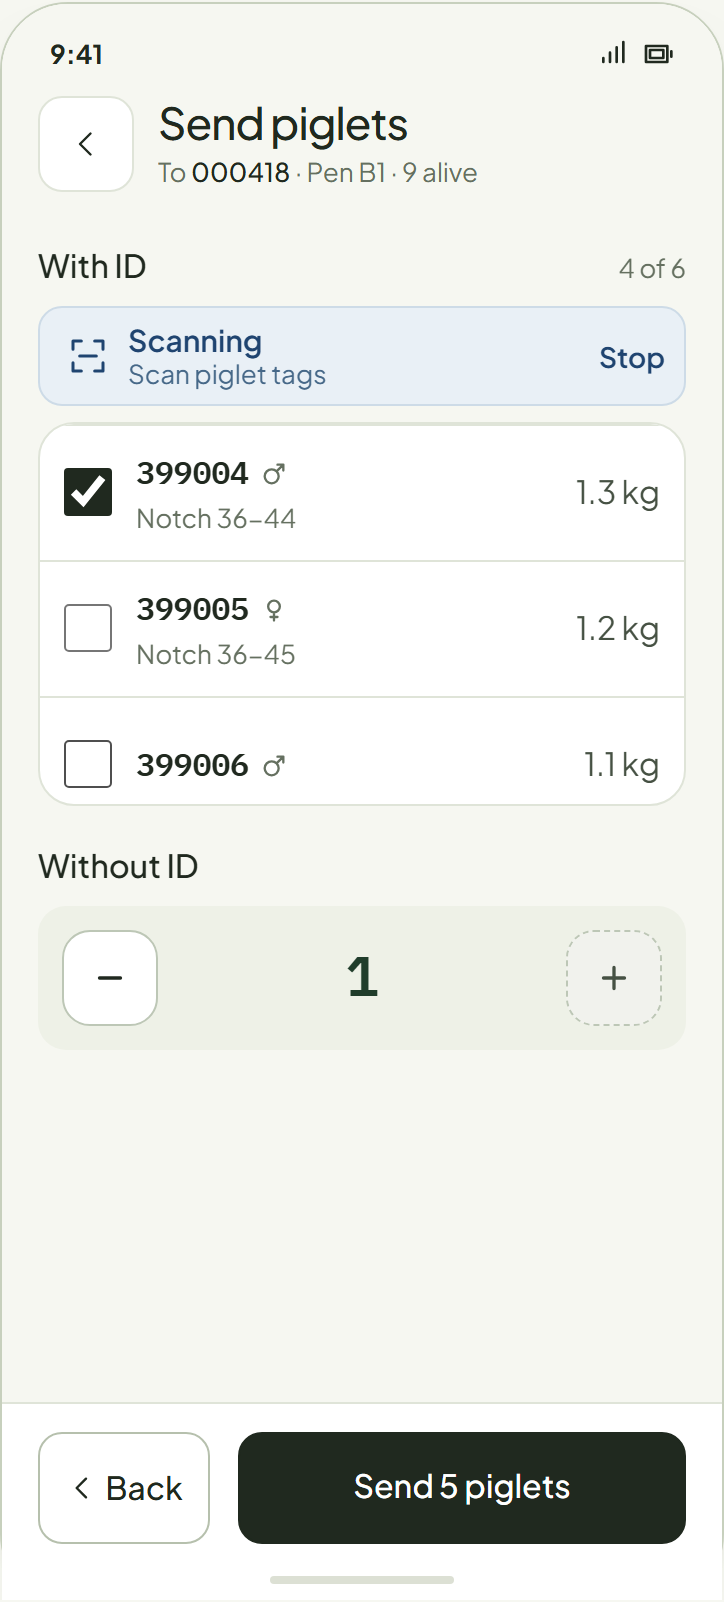
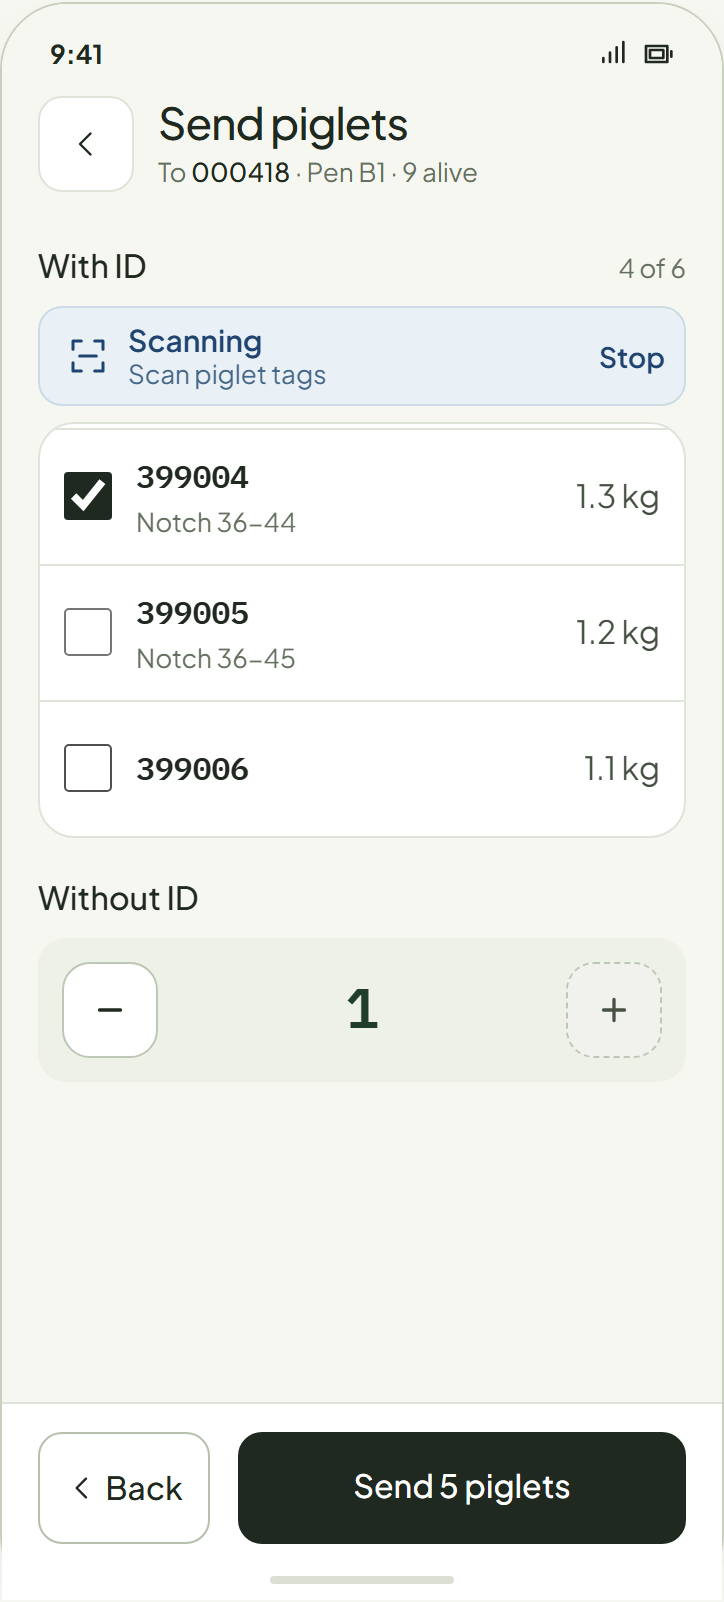
Send piglets: three whole ID rows with a fade for more; no sex glyph (a tagged piglet's sex is on record); canvas: the ticked colour options

diff --git a/ux/system/farrowing-astra-concept.js b/ux/system/farrowing-astra-concept.js
@@ -1168,14 +1168,16 @@ const fosterActive=g=>Number(g.unit!=='all')+roomFilterCount(g);   // the badge:
 const fosterShown=(s,g)=>fosterCandidates(s).filter(({r,unit})=>fosterMatch(g,r,unit)).length;
 // The litter's piglets with an ID (owner, 2026-11-02): a label as Without ID's with the count ticked at its end, the search by piglet ID
 // (its scan icon turns it into the scan bar, and each read ticks that piglet), then one box of tick rows (no card inside a card), a row each (Row · Select with an animal's right side:
-// the ID with its sex glyph over its notch, the weight on the right). Past about 2½ rows they scroll inside the box, a whole row
-// always at its top; the cut row says there are more.
+// the ID over its notch, the weight on the right; no sex: a tagged piglet's sex is already on record, owner 2026-11-03). Past three whole rows they scroll inside the box, a whole row
+// always at its top; a fade at the bottom says there are more.
 function fosterIdRows(list,f){
  const q=f.idQ.trim().toLowerCase(),shown=list.filter(p=>!q||p.tag.toLowerCase().includes(q));
  if(!shown.length)return `<p class="st-find-hint foster-id-none">No piglet ID matching “${esc(f.idQ.trim())}”.</p>`;
- return shown.map(p=>{const html=SentriUI.rowSelect({code:p.tag,description:p.notch?'Notch '+p.notch:'',right:{kind:'state',figure:p.weight?p.weight+' kg':'',word:'',level:'settled'},checked:f.ids.includes(p.tag),fill:false,action:'fosterId',value:p.tag,inputAttrs:{'data-value':p.tag,'aria-label':'Move '+p.tag}});const sex=p.sex==='Female'||p.sex==='Male'?`<span class="piglet-sex" role="img" aria-label="${p.sex}">${icon(p.sex.toLowerCase())}</span>`:'',out=html.replace(`<strong class="st-animal-id">${p.tag}</strong>`,`<strong class="st-animal-id">${p.tag}${sex}</strong>`);   // ♀ / ♂ beside the ID (owner, 2026-11-02)
-  return p.tag===f.idRead?out.replace(/class="/,'data-read class="'):out;}).join('');
+ return shown.map(p=>{const html=SentriUI.rowSelect({code:p.tag,description:p.notch?'Notch '+p.notch:'',right:{kind:'state',figure:p.weight?p.weight+' kg':'',word:'',level:'settled'},checked:f.ids.includes(p.tag),fill:false,action:'fosterId',value:p.tag,inputAttrs:{'data-value':p.tag,'aria-label':'Move '+p.tag}});return p.tag===f.idRead?html.replace(/class="/,'data-read class="'):html;}).join('');
 }
+// The box fades its bottom edge while rows sit below it.
+const fosterIdMore=sc=>sc.toggleAttribute('data-more',sc.scrollTop+sc.clientHeight<sc.scrollHeight-1);
+if(typeof document!=='undefined')document.addEventListener('scroll',e=>{if(e.target.matches?.('.foster-id-scroll'))fosterIdMore(e.target);},true);
 function fosterIdList(list,f){
  if(!list.length)return '';
  const bar=f.idScan?SentriUI.scanBar({state:f.idScan==='waiting'?'waiting':'scanning',device:'Reader 1',text:f.idScan==='waiting'?'':'Scan piglet tags',stop:{action:'fosterIdScanStop'}})
@@ -1216,7 +1218,7 @@ function farrowingBackground(s){
  return '<div class="page-background" inert aria-hidden="true">'+farrowingRecordSurface({...s,view:parent})+'</div>';
 }
 function render(i,focusKey){const fosterTop=document.querySelector(`[data-card="${i}"] .foster-pick .sheet-body`)?.scrollTop||0;renderCard(i,focusKey);const list=document.querySelector(`[data-card="${i}"] .foster-pick .sheet-body`);if(list)list.scrollTop=fosterTop;}   // the list keeps its place under the count drawer
-function renderCard(i,focusKey){const s=states[i],context=roomContext(s);persistDraft(s);if(s.view==='profile'&&s.actionsEntry)s.actionReturn=false; /* back at the actions drawer: the pending return is spent, or the drawer's own Back would reopen it */if(s.actionReturn&&['count','locked'].includes(s.view)){s.actionReturn=false;if(!s.ended){s.view='profile';s.actionsEntry=true;}}if(s.view==='room'&&context.returnToTaskReview){s.view=context.returnToTaskReview;context.returnToTaskReview=false;}const root=document.querySelector(`[data-card="${i}"]`);clearTimeout(reminderTimers[i]);if(s.view!=='count')s.pointers=false;if(s.pointers)reminderTimers[i]=setTimeout(()=>{if(states[i]!==s||s.view!=='count')return;s.pointers=false;const status=root.querySelector('.receipt');if(status)status.innerHTML=receipt(s);},4000);const active=root.contains(document.activeElement)?document.activeElement:null,field=active?.dataset?.field,fieldValue=active?.value;if(root.dataset.view==='roomOverview')context.overviewScroll=root.querySelector('.phone > .sheet > .sheet-body')?.scrollTop||0;const previousPopup=root.dataset.popup||'';const popupChanged=previousPopup!==(s.popup?.kind||'');root.dataset.popup=s.popup?.kind||'';const sameView=root.dataset.view===s.view;const scroll=sameView?root.querySelector('.phone > .sheet > .sheet-body')?.scrollTop||0:0;root.dataset.view=s.view;root.querySelector('.phone').innerHTML=`<div class="room-surface"${!['room','roomHome','roomSearch','roomScan'].includes(s.view)?' inert':''}>${room(s)}</div>`+farrowingBackground(s)+farrowingRecordSurface(s)+roomOverlay(s)+capabilitySurface(s)+(s.view==='history'?history(s):s.view==='profile'?profile(s):s.view==='deathBreakdown'?deathBreakdown(s):s.view==='litter'?litter(s):'')+popup(s);placeTaskSyncBadge(root);connectSowDetail(root,s);root.querySelectorAll('.st-filter-chips-track').forEach(tr=>{const b=tr.querySelector('[aria-checked="true"]');if(b&&b.offsetLeft+b.offsetWidth>tr.clientWidth)tr.scrollLeft=b.offsetLeft+b.offsetWidth-tr.clientWidth+parseFloat(getComputedStyle(tr).paddingRight);});   /* the ticked chip in view (the track scrolls sideways) */root.querySelectorAll('.foster-id-scroll [data-read]').forEach(r=>{const sc=r.parentElement;sc.scrollTop=r.offsetTop-sc.offsetTop;});   /* a read piglet at the top of the box */if(root.querySelector('.phone > .sheet > .sheet-body'))root.querySelector('.phone > .sheet > .sheet-body').scrollTop=s.view==='roomOverview'?(context.overviewScroll||0):scroll;if(s.popup&&s.popup.kind!=='born'){root.querySelectorAll('.phone > :not(.dialog-backdrop)').forEach(e=>e.setAttribute('inert',''));root.querySelector('.record-page')?.setAttribute('inert','');}if(!sameView){root.querySelector('.phone > .sheet,.phone > .record-page')?.focus({preventScroll:true,focusVisible:false});}if(popupChanged&&s.popup)root.querySelector('.dialog input,.dialog button')?.focus({preventScroll:true,focusVisible:false});else if(popupChanged&&previousPopup==='undo')root.querySelector('[data-action="undoAsk"]')?.focus({preventScroll:true,focusVisible:false});if(field){[...root.querySelectorAll('.phone > .sheet [data-field]')].find(x=>x.dataset.field===field&&(x.type!=='radio'||x.value===fieldValue))?.focus({preventScroll:true,focusVisible:false});}if(focusKey){const target=Array.from(root.querySelectorAll('.phone > .sheet [data-action]')).find(e=>e.dataset.action===focusKey.a&&e.dataset.value===focusKey.v);const focusTarget=target&&!target.disabled?target:target?.closest('.st-stepper')?.querySelector('button:not(:disabled)')||root.querySelector('.phone > .sheet,.phone > .record-page');focusTarget?.focus({preventScroll:true,focusVisible:false});}SentriUI.liveFill(root,{delay:0});if(popupChanged&&previousPopup==='photo'&&!s.popup){const origin=s.photoOrigin;root.querySelector(`[data-action="${origin?.action||'addPhoto'}"][data-value="${origin?.index??'photos'}"]`)?.focus();}roomAfterRender(i);if(i===0&&window.AtlasBare)AtlasBare.watch(()=>atlasScreen(s,context)); }
+function renderCard(i,focusKey){const s=states[i],context=roomContext(s);persistDraft(s);if(s.view==='profile'&&s.actionsEntry)s.actionReturn=false; /* back at the actions drawer: the pending return is spent, or the drawer's own Back would reopen it */if(s.actionReturn&&['count','locked'].includes(s.view)){s.actionReturn=false;if(!s.ended){s.view='profile';s.actionsEntry=true;}}if(s.view==='room'&&context.returnToTaskReview){s.view=context.returnToTaskReview;context.returnToTaskReview=false;}const root=document.querySelector(`[data-card="${i}"]`);clearTimeout(reminderTimers[i]);if(s.view!=='count')s.pointers=false;if(s.pointers)reminderTimers[i]=setTimeout(()=>{if(states[i]!==s||s.view!=='count')return;s.pointers=false;const status=root.querySelector('.receipt');if(status)status.innerHTML=receipt(s);},4000);const active=root.contains(document.activeElement)?document.activeElement:null,field=active?.dataset?.field,fieldValue=active?.value;if(root.dataset.view==='roomOverview')context.overviewScroll=root.querySelector('.phone > .sheet > .sheet-body')?.scrollTop||0;const previousPopup=root.dataset.popup||'';const popupChanged=previousPopup!==(s.popup?.kind||'');root.dataset.popup=s.popup?.kind||'';const sameView=root.dataset.view===s.view;const scroll=sameView?root.querySelector('.phone > .sheet > .sheet-body')?.scrollTop||0:0;root.dataset.view=s.view;root.querySelector('.phone').innerHTML=`<div class="room-surface"${!['room','roomHome','roomSearch','roomScan'].includes(s.view)?' inert':''}>${room(s)}</div>`+farrowingBackground(s)+farrowingRecordSurface(s)+roomOverlay(s)+capabilitySurface(s)+(s.view==='history'?history(s):s.view==='profile'?profile(s):s.view==='deathBreakdown'?deathBreakdown(s):s.view==='litter'?litter(s):'')+popup(s);placeTaskSyncBadge(root);connectSowDetail(root,s);root.querySelectorAll('.st-filter-chips-track').forEach(tr=>{const b=tr.querySelector('[aria-checked="true"]');if(b&&b.offsetLeft+b.offsetWidth>tr.clientWidth)tr.scrollLeft=b.offsetLeft+b.offsetWidth-tr.clientWidth+parseFloat(getComputedStyle(tr).paddingRight);});   /* the ticked chip in view (the track scrolls sideways) */root.querySelectorAll('.foster-id-scroll [data-read]').forEach(r=>{const sc=r.parentElement;sc.scrollTop=r.offsetTop-sc.offsetTop;});   /* a read piglet at the top of the box */root.querySelectorAll('.foster-id-scroll').forEach(fosterIdMore);if(root.querySelector('.phone > .sheet > .sheet-body'))root.querySelector('.phone > .sheet > .sheet-body').scrollTop=s.view==='roomOverview'?(context.overviewScroll||0):scroll;if(s.popup&&s.popup.kind!=='born'){root.querySelectorAll('.phone > :not(.dialog-backdrop)').forEach(e=>e.setAttribute('inert',''));root.querySelector('.record-page')?.setAttribute('inert','');}if(!sameView){root.querySelector('.phone > .sheet,.phone > .record-page')?.focus({preventScroll:true,focusVisible:false});}if(popupChanged&&s.popup)root.querySelector('.dialog input,.dialog button')?.focus({preventScroll:true,focusVisible:false});else if(popupChanged&&previousPopup==='undo')root.querySelector('[data-action="undoAsk"]')?.focus({preventScroll:true,focusVisible:false});if(field){[...root.querySelectorAll('.phone > .sheet [data-field]')].find(x=>x.dataset.field===field&&(x.type!=='radio'||x.value===fieldValue))?.focus({preventScroll:true,focusVisible:false});}if(focusKey){const target=Array.from(root.querySelectorAll('.phone > .sheet [data-action]')).find(e=>e.dataset.action===focusKey.a&&e.dataset.value===focusKey.v);const focusTarget=target&&!target.disabled?target:target?.closest('.st-stepper')?.querySelector('button:not(:disabled)')||root.querySelector('.phone > .sheet,.phone > .record-page');focusTarget?.focus({preventScroll:true,focusVisible:false});}SentriUI.liveFill(root,{delay:0});if(popupChanged&&previousPopup==='photo'&&!s.popup){const origin=s.photoOrigin;root.querySelector(`[data-action="${origin?.action||'addPhoto'}"][data-value="${origin?.index??'photos'}"]`)?.focus();}roomAfterRender(i);if(i===0&&window.AtlasBare)AtlasBare.watch(()=>atlasScreen(s,context)); }
 // Pointer taps keep keyboard focus position without drawing a keyboard-only ring.
 document.addEventListener('pointerdown',()=>document.documentElement.dataset.inputMode='pointer',true);
 document.addEventListener('keydown',()=>delete document.documentElement.dataset.inputMode,true);
@@ -1224,7 +1226,7 @@ const gallery=document.getElementById('gallery');gallery.innerHTML=cards.map((c,
 // The range slider reports each change; keep the draft and the live count in step.
 gallery.addEventListener('sentri-range-change',e=>{const root=e.target.closest('[data-card]'),c=roomContext(states[+root.dataset.card]);if(/^foster/.test(e.detail.key)){const s=states[+root.dataset.card];Object.assign(s.fosterDraft.filterDraft,e.detail.values);const n=fosterShown(s,s.fosterDraft.filterDraft);e.target.closest('.sheet').querySelector('[data-action="fosterFilterApply"]').textContent='Show '+n+' '+(n===1?'sow':'sows');return;}Object.assign(c.filterDraft,e.detail.values);const n=visibleRoomRecords(c,c.filterDraft).length;e.target.closest('.sheet').querySelector('[data-action="room-apply-filter"]').textContent='Show '+n+' '+(n===1?'sow':'sows');});
 // Choose pigs: typing narrows the list where it is, so the field keeps focus; Clear shows only while something is typed.
-gallery.addEventListener('input',e=>{if(!e.target.matches('[data-foster-id-search]'))return;const i=+e.target.closest('[data-card]').dataset.card,s=states[i],box=e.target.closest('.foster-ids');s.fosterDraft.idQ=e.target.value;box.querySelector('.foster-id-scroll').innerHTML=fosterIdRows(fosterIds(fosterFrom(s)),s.fosterDraft);box.querySelector('[data-action="fosterIdClear"]')?.toggleAttribute('hidden',!s.fosterDraft.idQ);});
+gallery.addEventListener('input',e=>{if(!e.target.matches('[data-foster-id-search]'))return;const i=+e.target.closest('[data-card]').dataset.card,s=states[i],box=e.target.closest('.foster-ids');s.fosterDraft.idQ=e.target.value;box.querySelector('.foster-id-scroll').innerHTML=fosterIdRows(fosterIds(fosterFrom(s)),s.fosterDraft);fosterIdMore(box.querySelector('.foster-id-scroll'));box.querySelector('[data-action="fosterIdClear"]')?.toggleAttribute('hidden',!s.fosterDraft.idQ);});
 gallery.addEventListener('input',e=>{if(!e.target.matches('[data-foster-search]'))return;const i=+e.target.closest('[data-card]').dataset.card,s=states[i],page=e.target.closest('.foster-pick');s.fosterDraft.q=e.target.value;page.querySelector('.foster-list').innerHTML=fosterPickList(s);page.querySelector('[data-action="fosterClear"]')?.toggleAttribute('hidden',!s.fosterDraft.q);if(i===0&&window.AtlasBare)AtlasBare.watch(()=>atlasScreen(s,roomContext(s)));});
 gallery.addEventListener('input',e=>{if(!e.target.matches('[data-batch-search]'))return;const i=+e.target.closest('[data-card]').dataset.card,c=roomContext(states[i]),page=e.target.closest('.batch-pick');c.batch.q=e.target.value;page.querySelector('.batch-list').innerHTML=batchRows(c);page.querySelector('[data-action="room-batch-clear"]')?.toggleAttribute('hidden',!c.batch.q);});
 gallery.addEventListener('input',e=>{if(!e.target.matches('[data-room-search]'))return;const i=+e.target.closest('[data-card]').dataset.card,c=roomContext(states[i]),page=e.target.closest('.st-find');c.query=e.target.value;page.querySelector('.st-find-results').innerHTML=searchBody(c);page.querySelector('.st-find-clear').hidden=!c.query;if(i===0&&window.AtlasBare)AtlasBare.watch(()=>atlasScreen(states[0],c));});

diff --git a/ux/design-system/components/bundle.css b/ux/design-system/components/bundle.css
@@ -1639,17 +1639,17 @@ input::placeholder,textarea::placeholder{color:var(--ink-2);opacity:1}
    (first chip under the section title, Allocate piglets' Unit filter). */
 .st-filter-section .st-filter-chips{margin-inline:calc(-1 * var(--space-gutter))}
 /* Foster piglets · With ID (owner, 2026-11-02): a label as Without ID's (its ticked count at the end), the search or scan bar, then one
-   box of tick rows that scrolls past about 2½ rows, so the count and Send stay on screen. No card inside the box. Foster off is a
+   box of tick rows that scrolls past three whole rows (a fade says there are more), so the count and Send stay on screen. No card inside the box. Foster off is a
    page (the tint), so the box is white (Surfaces rule 1). */
 .farrowing-phone .foster-ids{display:flex;flex-direction:column;gap:var(--space-8)}
 .farrowing-phone .foster-ids-head{display:flex;align-items:baseline;justify-content:space-between;margin:0;font:500 var(--type-entry-label-size)/1.5 var(--font-sans);color:var(--ink)}
 .farrowing-phone .foster-ids-count{font:400 var(--type-description-size)/1.5 var(--font-sans);color:var(--muted)}
 .farrowing-phone .foster-ids .st-choice-search{margin:0}
 .farrowing-phone .foster-id-box{border:var(--border-width) solid var(--line);border-radius:var(--radius-panel);background:var(--paper);overflow:clip}
-.farrowing-phone .foster-id-scroll{max-height:calc(2.5 * var(--animal-row-min));overflow-y:auto;overscroll-behavior:contain;scrollbar-width:none;scroll-snap-type:y mandatory}
+.farrowing-phone .foster-id-scroll{max-height:calc(3 * var(--row-min) + 2 * var(--border-width));overflow-y:auto;overscroll-behavior:contain;scrollbar-width:none;scroll-snap-type:y mandatory}
 .farrowing-phone .foster-id-scroll>.st-row{scroll-snap-align:start}   /* a whole row at the top of the box, never a half one */
-.farrowing-phone .piglet-sex{display:inline-flex;margin-left:var(--space-6);vertical-align:-2px;color:var(--muted)}
-.farrowing-phone .piglet-sex svg{width:var(--size-14);height:var(--size-14);stroke-width:2}
+/* Three whole rows show; while more sit below, the bottom edge fades (owner, 2026-11-03: a cut row read as a spacing bug). */
+.farrowing-phone .foster-id-scroll[data-more]{-webkit-mask-image:linear-gradient(to bottom,#000 calc(100% - var(--space-28)),transparent);mask-image:linear-gradient(to bottom,#000 calc(100% - var(--space-28)),transparent)}
 .farrowing-phone .foster-id-scroll::-webkit-scrollbar{display:none}
 .farrowing-phone .foster-id-scroll>.st-row+.st-row{border-top:var(--border-width) solid var(--line)}
 .farrowing-phone .foster-id-none{margin:0;padding:var(--space-16)}

diff --git a/ux/design-system/components/bundle.js b/ux/design-system/components/bundle.js
@@ -45,8 +45,6 @@
     down:'m6 9 6 6 6-6',
     'arrow-down':'M12 5v14M6 13l6 6 6-6',
     'trend-down':'M3 6l7 7 4-4 7 7M21 11v5h-5',
-    female:'M12 14a5 5 0 1 0 0-10 5 5 0 0 0 0 10zM12 14v7M9 18h6',
-    male:'M10 20a6 6 0 1 0 0-12 6 6 0 0 0 0 12zM14.2 9.8 20 4M15 4h5v5',
     place:'M20 10c0 6-8 12-8 12S4 16 4 10a8 8 0 1 1 16 0M15 10a3 3 0 1 1-6 0 3 3 0 0 1 6 0',
     home:'m3 10 9-7 9 7v11h-6v-7H9v7H3z',
     toolbox:'M3 8h18v12H3zM8 8V4h8v4M3 13h18M10 12v3h4v-3',
